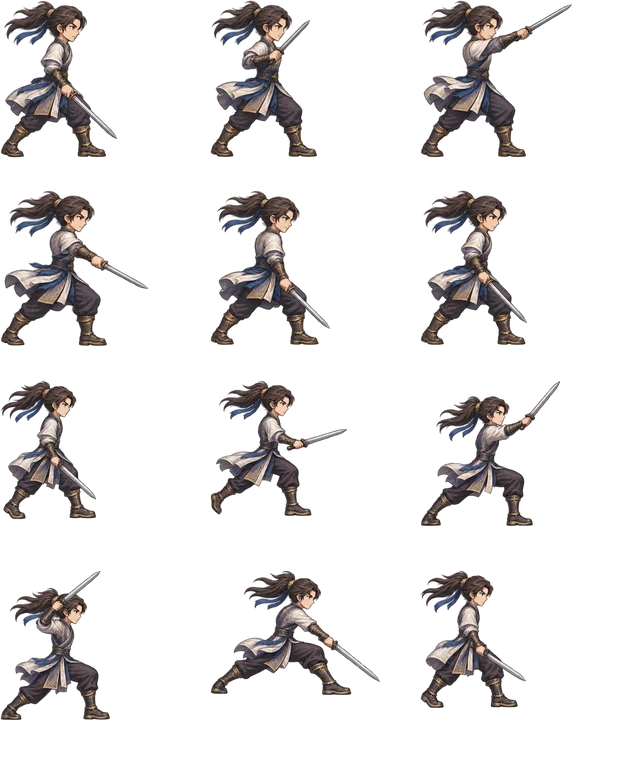
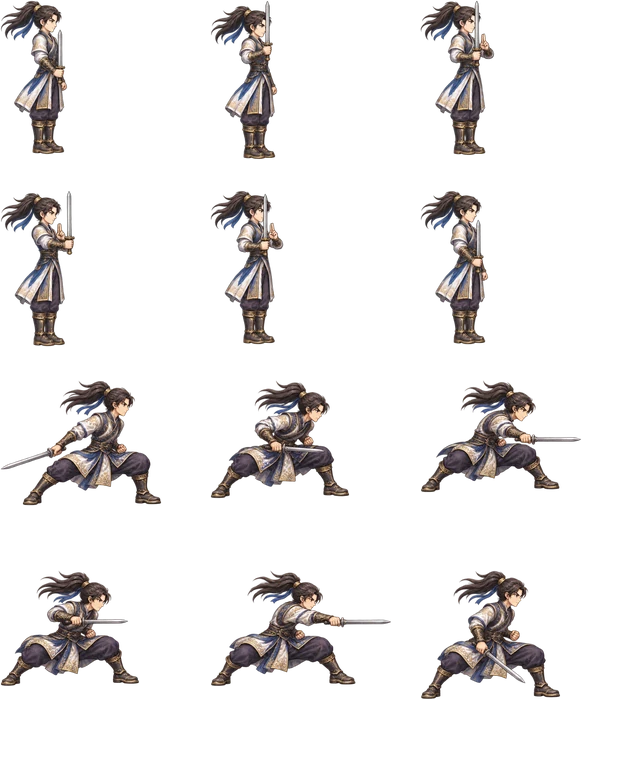
art: distinguish sword skill poses from normal attacks

diff --git a/index.html b/index.html
@@ -1,5 +1,5 @@
 <!doctype html>
-<html lang="zh-Hant"><head><meta charset="utf-8"><meta name="viewport" content="width=device-width,initial-scale=1,maximum-scale=1,user-scalable=no,viewport-fit=cover"><meta name="apple-mobile-web-app-capable" content="yes"><title>俠影江湖：群俠亂鬥 v0.09-C-Art-Test｜A4-30 專用劍法</title><style>html,body{margin:0;width:100%;height:100%;overflow:hidden;background:#171b20;touch-action:none;font-family:-apple-system,BlinkMacSystemFont,"PingFang TC",sans-serif}#wrap{position:fixed;inset:0;display:flex;align-items:center;justify-content:center}canvas{display:block;background:#9ab878;touch-action:none}#rotate{display:none;position:fixed;inset:0;background:#111;color:#fff;z-index:9;align-items:center;justify-content:center;text-align:center;padding:30px;font-size:20px}#creator{position:fixed;inset:0;z-index:8;background:#111d;display:flex;align-items:center;justify-content:center;color:#fff}#card{width:min(560px,86vw);background:#1e2935;border:2px solid #ffffffaa;border-radius:14px;padding:22px;box-sizing:border-box;text-align:center}#card h1{font-size:28px;margin:0 0 18px}#nameInput{width:82%;font-size:20px;padding:10px;border-radius:8px;border:0;text-align:center}.classes{display:flex;gap:10px;justify-content:center;margin:18px 0}.classBtn{font-size:18px;padding:12px 20px;border-radius:9px;border:2px solid #ffffff55;background:#2b3540;color:#fff}.classBtn.sel{border-color:#fff4b0;background:#355f82}#startBtn{font-size:20px;font-weight:bold;padding:12px 38px;border:0;border-radius:9px;background:#c8a45b;color:#171b20}#hint{font-size:14px;color:#ccc;margin:12px 0 0}@media(orientation:portrait){#rotate{display:flex}}</style></head><body><div id="wrap"><canvas id="game"></canvas></div><div id="creator"><div id="card"><h1>建立你的江湖角色</h1><input id="nameInput" maxlength="8" placeholder="輸入角色名稱"><div class="classes"><button class="classBtn sel" data-job="劍俠">劍俠</button><button class="classBtn" data-job="遊俠">遊俠</button><button class="classBtn" data-job="武者">武者</button></div><button id="startBtn">踏入江湖</button><div id="hint">劍俠：劍　｜　遊俠：弓　｜　武者：長槍</div></div></div><div id="rotate">請將 iPhone 轉成橫向遊玩</div><script>
+<html lang="zh-Hant"><head><meta charset="utf-8"><meta name="viewport" content="width=device-width,initial-scale=1,maximum-scale=1,user-scalable=no,viewport-fit=cover"><meta name="apple-mobile-web-app-capable" content="yes"><title>俠影江湖：群俠亂鬥 v0.09-C-Art-Test｜A4-30 劍法姿勢重製</title><style>html,body{margin:0;width:100%;height:100%;overflow:hidden;background:#171b20;touch-action:none;font-family:-apple-system,BlinkMacSystemFont,"PingFang TC",sans-serif}#wrap{position:fixed;inset:0;display:flex;align-items:center;justify-content:center}canvas{display:block;background:#9ab878;touch-action:none}#rotate{display:none;position:fixed;inset:0;background:#111;color:#fff;z-index:9;align-items:center;justify-content:center;text-align:center;padding:30px;font-size:20px}#creator{position:fixed;inset:0;z-index:8;background:#111d;display:flex;align-items:center;justify-content:center;color:#fff}#card{width:min(560px,86vw);background:#1e2935;border:2px solid #ffffffaa;border-radius:14px;padding:22px;box-sizing:border-box;text-align:center}#card h1{font-size:28px;margin:0 0 18px}#nameInput{width:82%;font-size:20px;padding:10px;border-radius:8px;border:0;text-align:center}.classes{display:flex;gap:10px;justify-content:center;margin:18px 0}.classBtn{font-size:18px;padding:12px 20px;border-radius:9px;border:2px solid #ffffff55;background:#2b3540;color:#fff}.classBtn.sel{border-color:#fff4b0;background:#355f82}#startBtn{font-size:20px;font-weight:bold;padding:12px 38px;border:0;border-radius:9px;background:#c8a45b;color:#171b20}#hint{font-size:14px;color:#ccc;margin:12px 0 0}@media(orientation:portrait){#rotate{display:flex}}</style></head><body><div id="wrap"><canvas id="game"></canvas></div><div id="creator"><div id="card"><h1>建立你的江湖角色</h1><input id="nameInput" maxlength="8" placeholder="輸入角色名稱"><div class="classes"><button class="classBtn sel" data-job="劍俠">劍俠</button><button class="classBtn" data-job="遊俠">遊俠</button><button class="classBtn" data-job="武者">武者</button></div><button id="startBtn">踏入江湖</button><div id="hint">劍俠：劍　｜　遊俠：弓　｜　武者：長槍</div></div></div><div id="rotate">請將 iPhone 轉成橫向遊玩</div><script>
 const c=document.getElementById('game'),ctx=c.getContext('2d'),W=1280,H=720;c.width=W;c.height=H;function fit(){let s=Math.min(innerWidth/W,innerHeight/H);c.style.width=W*s+'px';c.style.height=H*s+'px'}addEventListener('resize',fit);fit();
 let playerName='無名俠客',playerJob='劍俠';document.querySelectorAll('.classBtn').forEach(b=>b.onclick=()=>{playerJob=b.dataset.job;document.querySelectorAll('.classBtn').forEach(x=>x.classList.toggle('sel',x===b))});document.getElementById('startBtn').onclick=()=>{let n=document.getElementById('nameInput').value.trim();playerName=n||'無名俠客';inventory=[jobProfile().starter];equipped=inventory[0];martialTab=jobProfile().tab;bagNotice='';document.getElementById('creator').style.display='none'};
 const clamp=(v,a,b)=>Math.max(a,Math.min(b,v)),dist=(a,b)=>Math.hypot(a.x-b.x,a.y-b.y);let score=0,win=false,gameOver=false,loot=null,skillCD=0,invuln=0,combo=0,comboT=0,shake=0,flash=0,bossSpawned=false,bossDefeated=false,comboPop=0,wave=1,mapId=1;let fx=[],projectiles=[];let bagOpen=false,statsOpen=false,martialOpen=false,inventory=[],equipped=null;let level=1,exp=0;let stats={strength:10,vitality:10,agility:10,inner:10},statPoints=0,martialPoints=0;let swordPath={yude:1,peidao:0,qidi:0};let martialTab='sword',bowPath={basic:1,rapid:0},equippedBow='basic',rapidBurst=null;let spearPath={sweep:0},equippedSpear=null,sweepCD=0;let lightPath={water:0,wolf:0},equippedLight=null,wolfDash=null;function wolfEquipped(){return lightPath.wolf>0&&equippedLight==='wolf'}function learnWolf(){if(!lightPath.water||lightPath.wolf||martialPoints<=0)return;martialPoints--;lightPath.wolf=1}function toggleWolf(){if(lightPath.wolf){equippedLight=wolfEquipped()?null:'wolf';wolfDash=null}}function waterEquipped(){return lightPath.water>0&&equippedLight==='water'}function learnWater(){if(lightPath.water||martialPoints<=0)return;martialPoints--;lightPath.water=1}function toggleWater(){if(lightPath.water){equippedLight=waterEquipped()?null:'water';wolfDash=null}}let equippedSword='yude';function swordName(){return equippedSword==='peidao'?'培道劍法':'育德劍法'}function equipSword(k){if(jobProfile().tab!=='sword')return;if(k==='yude'||(k==='peidao'&&swordPath.peidao))equippedSword=k}function learnRapid(){if(jobProfile().tab!=='bow')return;if(bowPath.rapid||martialPoints<=0)return;martialPoints--;bowPath.rapid=1;equippedBow='rapid';addItem('獵戶短弓')}function activeSkillLabel(){if(weaponType()==='長槍')return spearPath.sweep&&equippedSpear==='sweep'?'橫掃':'槍道';return weaponType()==='弓'?(bowPath.rapid&&equippedBow==='rapid'?'連射':'弓術'):swordName().slice(0,2)+'\n劍法'}function learnSweep(){if(jobProfile().tab!=='spear')return;if(spearPath.sweep||martialPoints<=0)return;martialPoints--;spearPath.sweep=1;equippedSpear='sweep';addItem('木柄長槍')}function sweep(){if(jobProfile().tab!=='spear')return;if(weaponType()!=='長槍'||sweepCD>0||p.attT>0||p.dodgeT>0||win||gameOver||bagOpen||statsOpen||martialOpen)return;if(!spearPath.sweep||equippedSpear!=='sweep'){fx.push({x:p.x,y:p.y-80,t:.8,max:.8,message:'請先學習並裝備橫掃'});return}const face=p.face;sweepCD=3.8;p.attT=.58;combo=0;comboT=0;shake=Math.max(shake,10);fx.push({x:p.x,y:p.y,t:.55,max:.55,sweep:true,face});const dmg=32+atkBonus()+levelAtk()+spearStatAtk();let hits=0;enemies.forEach(e=>{let dx=(e.x-p.x)*face,dy=e.y-p.y;if(e.hp>0&&Math.hypot(dx,dy)<=260&&Math.abs(Math.atan2(dy,dx))<=1.3){damageEnemy(e,dmg,face*110,.65);hits++}});gainProficiency('sweep',hits)}function fireRapidArrow(b){projectiles.push({x:p.x+b.face*32,y:p.y-8,dx:b.face,dy:0,speed:720,life:1.05,dmg:b.dmg,rapidHits:rapidCastHits});fx.push({x:p.x+35*b.face,y:p.y-8,t:.18,max:.18,bow:true})}function rapidShot(){if(jobProfile().tab!=='bow'||weaponType()!=='弓')return;if(!bowPath.rapid||equippedBow!=='rapid'){fx.push({x:p.x,y:p.y-80,t:.8,max:.8,message:'請先學習並裝備連射'});return}if(p.attT>0)return;skillCD=4;p.attT=.56;combo=0;comboT=0;rapidCastHits=new Set();rapidBurst={face:p.face,dmg:9+atkBonus()+levelAtk()+agiAtk(),left:2,t:.14};fireRapidArrow(rapidBurst)}function expNeed(){const table=[0,100,130,160,200,240,290,350,420,500];return table[level]||Math.round(500+(level-9)*90)}const itemData={'粗製鐵劍':{type:'劍',atk:3,color:'#ffd95a'},'青鋼長劍':{type:'劍',atk:8,color:'#6de0ff'},'獵戶短弓':{type:'弓',atk:2,color:'#9ee58f'},'木柄長槍':{type:'長槍',atk:4,color:'#e4c18a'}};function atkBonus(){return equipped?(itemData[equipped]?.atk||0):0}function levelAtk(){return (level-1)*2}function strAtk(){return Math.floor((stats.strength-10)*.6)}function agiAtk(){return Math.floor((stats.agility-10)*.6)}function spearStatAtk(){return Math.floor((stats.strength-10)*.35+(stats.agility-10)*.25)}function innerAtk(){return Math.floor((stats.inner-10)*.7)}const jobProfiles={
@@ -241,7 +241,7 @@ const swordsmanDodgeSprite=new Image();
 let swordsmanDodgeReady=false;
 swordsmanDodgeSprite.onload=()=>{swordsmanDodgeReady=true};
 swordsmanDodgeSprite.src='assets/swordsman-dodge.webp';
-const swordsmanSkillFrames=[[[0,0,118,158,57,157],[210,0,108,158,57,156],[420,0,153,158,55,157],[0,190,149,157,60,156],[210,190,121,156,58,155],[420,190,108,156,53,155]],[[0,380,97,140,47,139],[210,380,138,137,55,136],[420,380,141,147,64,146],[0,570,111,151,57,150],[210,570,171,126,67,125],[420,570,107,139,46,138]]];
+const swordsmanSkillFrames=[[[0,0,68,155,48,154],[210,0,68,160,49,159],[420,0,75,156,49,155],[0,190,76,157,49,156],[210,190,74,155,49,154],[420,190,69,155,49,154]],[[0,380,162,126,92,125],[210,380,140,119,70,118],[420,380,162,113,70,112],[0,570,140,117,70,116],[210,570,182,117,74,116],[420,570,141,130,70,128]]];
 const swordsmanSkillSprite=new Image();
 let swordsmanSkillReady=false;
 swordsmanSkillSprite.onload=()=>{swordsmanSkillReady=true};
